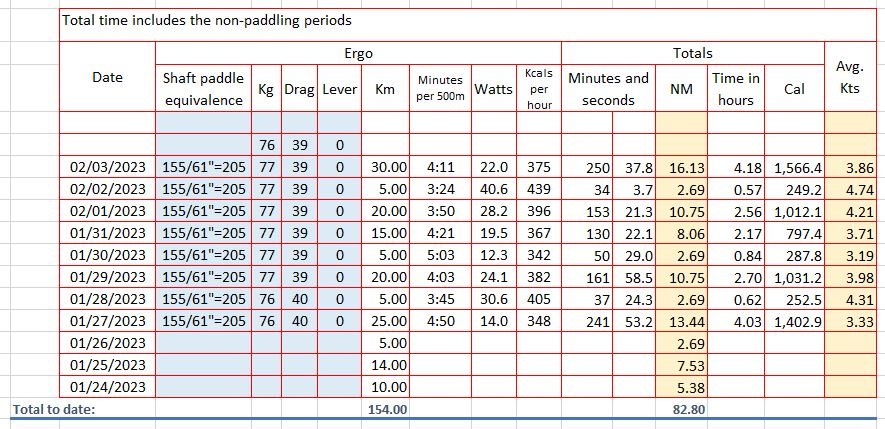
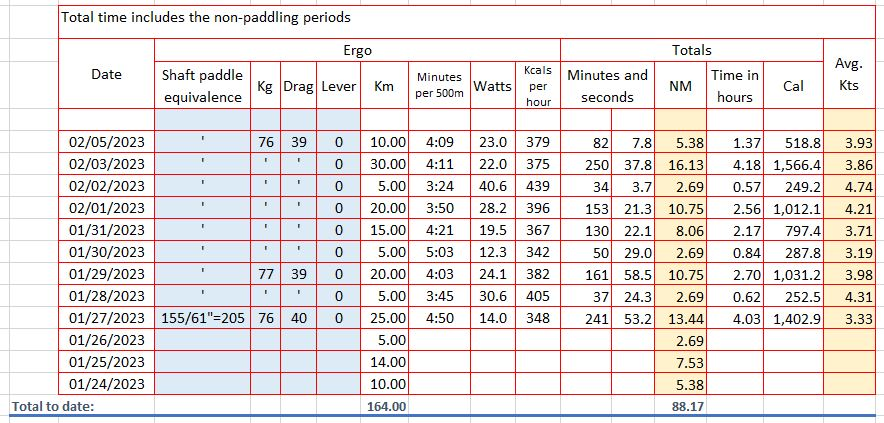
updates

diff --git a/dry-run/log/index.html b/dry-run/log/index.html
@@ -211,11 +211,11 @@ $(document).ready(function(){
 
 
     <br> <div class="text-justify"><blockquote>
-<p>February 3, 2023</p>
+<p>February 5, 2023</p>
 </blockquote>
-<p><img src="/img/feb3.JPG" alt="February 3">
+<p><img src="/img/feb5.JPG" alt="February 5">
 <div style="text-align: center">
-82.8 nautical miles, or 154 Km
+88 nautical miles, or 164 Km
 </div>
 </p>
 <p><img src="/img/Stats.JPG" alt="Stats">
